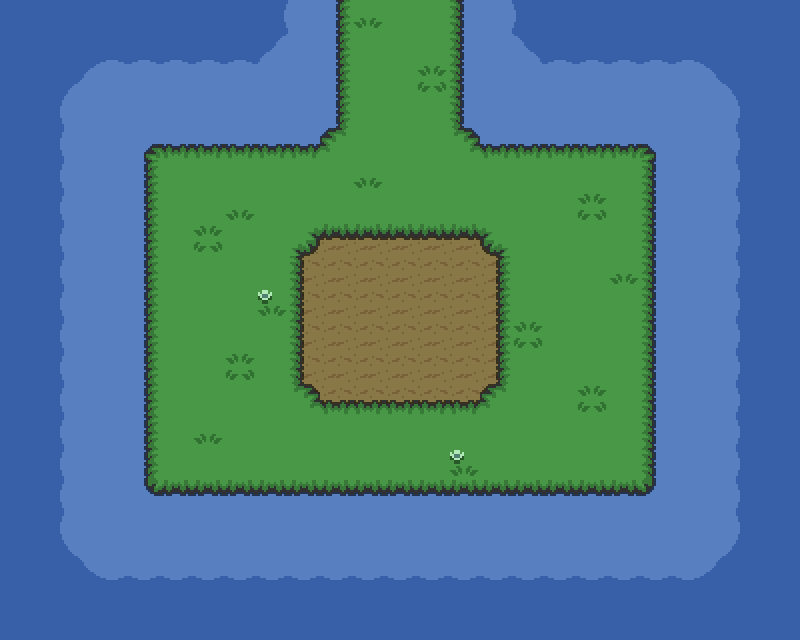
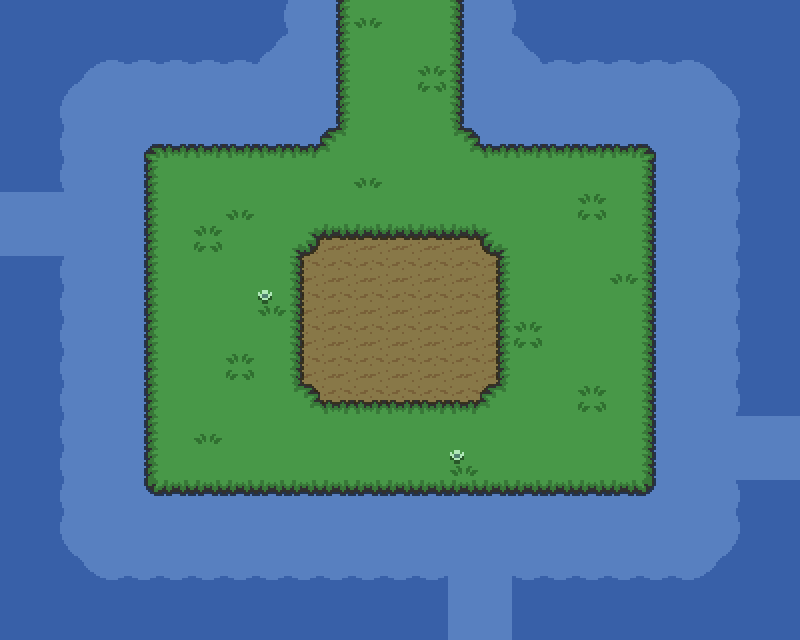
Añado constantes de ancho/alto del escenario a config, funciones para cambiar de escenario y viajar, corrección en map por las nuevas constantes y actualizo mapas Inicio y Explanada

Changed region(s): [[0.9062, 0.625, 1.0, 0.75], [0.0, 0.2812, 0.0938, 0.4062], [0.5625, 0.9062, 0.6562, 1.0]]

diff --git a/app/module/api/api.php b/app/module/api/api.php
@@ -259,7 +259,7 @@ class api extends OModule {
 		$this->getTemplate()->addComponent('scenario_objects', 'admin/scenario_objects', ['list' => $scenario_objects, 'extra' => 'nourlencode']);
 		$this->getTemplate()->addComponent('characters',       'admin/characters',       ['list' => $characters,       'extra' => 'nourlencode']);
 	}
-	
+
 	/**
 	 * Función para obtener los mundos que un jugador a desbloqueado
 	 *
@@ -283,5 +283,139 @@ class api extends OModule {
 
 		$this->getTemplate()->add('status', $status);
 		$this->getTemplate()->addComponent('list', 'admin/worlds', ['list' => $list, 'extra' => 'nourlencode']);
+	}
+
+	/**
+	 * Función para obtener las conexiones de un escenario
+	 *
+	 * @url /get-scenario-connections
+	 * @filter gameFilter
+	 * @param ORequest $req Request object with method, headers, parameters and filters used
+	 * @return void
+	 */
+	public function getScenarioConnections(ORequest $req): void {
+		$status      = 'ok';
+		$id_scenario = $req->getParamInt('id');
+		$list        = [];
+
+		if (is_null($id_scenario)) {
+			$status = 'error';
+		}
+
+		if ($status=='ok') {
+			$scenario = new Scenario();
+			if ($scenario->find(['id' => $id_scenario])){
+				$list = $scenario->getConnections();
+			}
+			else {
+				$status = 'error';
+			}
+		}
+
+		$this->getTemplate()->add('status', $status);
+		$this->getTemplate()->addComponent('list', 'admin/connections', ['list' => $list, 'extra' => 'nourlencode']);
+	}
+
+	/**
+	 * Función para viajar a otro mundo
+	 *
+	 * @url /travel
+	 * @filter gameFilter
+	 * @param ORequest $req Request object with method, headers, parameters and filters used
+	 * @return void
+	 */
+	public function travel(ORequest $req): void {
+		$status     = 'ok';
+		$id_game   = $req->getParamInt('idGame');
+		$id_world   = $req->getParamInt('idWorld');
+		$word_one   = $req->getParamString('wordOne');
+		$word_two   = $req->getParamString('wordTwo');
+		$word_three = $req->getParamString('wordThree');
+
+		if (is_null($id_game) || is_null($word_one) || is_null($word_two) || is_null($word_three)) {
+			$status = 'error';
+		}
+
+		if ($status=='ok') {
+			// Si viene id es que es un mundo ya conocido
+			if (!is_null($id)) {
+				$world = new World();
+				if (!$world->find(['id' => $id])) {
+					$world = null;
+				}
+			}
+			// Si no viene id es que está probando a ir a un mundo nuevo
+			else {
+				$world = $this->web_service->getWorldByWords( strtolower($word_one), strtolower($word_two), strtolower($word_three));
+			}
+
+			if (!is_null($world)) {
+				$id_world = $world->get('id');
+
+				$world_unlocked = new WorldUnlocked();
+				$world_unlocked->set('id_game', $id_game);
+				$world_unlocked->set('id_world', $id_world);
+				$world_unlocked->save();
+			}
+			else {
+				$status = 'error';
+				$id_world = 'null';
+			}
+		}
+
+		$this->getTemplate()->add('status', $status);
+		$this->getTemplate()->add('id',     $id_world);
+	}
+
+	/**
+	 * Función para cambiar de escenario
+	 *
+	 * @url /change-scenario
+	 * @filter gameFilter
+	 * @param ORequest $req Request object with method, headers, parameters and filters used
+	 * @return void
+	 */
+	public function changeScenario(ORequest $req): void {
+		$status  = 'ok';
+		$to      = $req->getParamInt('to');
+		$x       = $req->getParamInt('x');
+		$y       = $req->getParamInt('y');
+		$id_game = $req->getParamInt('idGame');
+
+		if (is_null($to) || is_null($x) || is_null($y) || is_null($id_game)) {
+			$status = 'error';
+		}
+
+		if ($status=='ok') {
+			$game = new Game();
+			if ($game->find(['id' => $id_game])) {
+				$changed_x = false;
+				$changed_y = false;
+				if ($x==$this->getConfig()->getExtra('width')) {
+					$x = 0;
+					$changed_x = true;
+				}
+				if ($y==$this->getConfig()->getExtra('height')) {
+					$y = 0;
+					$changed_y = true;
+				}
+				if (!$changed_x && $x==0) {
+					$x = ($this->getConfig()->getExtra('width') - 1);
+				}
+				if (!$changed_y && $y==0) {
+					$y = ($this->getConfig()->getExtra('height') - 1);
+				}
+
+				$game->set('id_scenario', $to);
+				$game->set('position_x', $x);
+				$game->set('position_y', $y);
+				$game->save();
+			}
+			else {
+				$status = 'error';
+			}
+		}
+
+		$this->getTemplate()->add('status', $status);
 	}
 }

diff --git a/app/task/map.php b/app/task/map.php
@@ -4,9 +4,12 @@ class mapTask extends OTask {
 		return "map: Nueva tarea map";
 	}
 
-	private $tile_size = 32;
-	private $rows = 20;
-	private $cols = 25;
+	private $scenario_width = null;
+	private $scenario_height = null;
+	private $tile_width = null;
+	private $tile_height = null;
+	private $rows = null;
+	private $cols = null;
 
 	private function getResource(string $file, string $ext) {
 		switch ($ext) {
@@ -30,10 +33,10 @@ class mapTask extends OTask {
 
 	private function calculatePosition(int $start_x, int $start_y, int $width, int $height): array {
 		$ret = [
-			'x' => ($start_x * $this->tile_size) - (($width-1) * $this->tile_size),
-			'y' => $start_y * $this->tile_size - (($height-1) * $this->tile_size),
-			'width' => $width * $this->tile_size,
-			'height' => $height * $this->tile_size
+			'x' => ($start_x * $this->tile_width) - (($width-1) * $this->tile_width),
+			'y' => $start_y * $this->tile_height - (($height-1) * $this->tile_height),
+			'width' => $width * $this->tile_width,
+			'height' => $height * $this->tile_height
 		];
 
 		return $ret;
@@ -57,11 +60,18 @@ class mapTask extends OTask {
 			exit;
 		}
 
+		$this->scenario_width = $this->getConfig()->getExtra('scenario_width');
+		$this->scenario_height = $this->getConfig()->getExtra('scenario_height');
+		$this->rows = $this->getConfig()->getExtra('height');
+		$this->cols = $this->getConfig()->getExtra('width');
+		$this->tile_width = $this->scenario_width / $this->cols;
+		$this->tile_height = $this->scenario_height / $this->rows;
+
 		$map_file = $this->getConfig()->getDir('maps').$scenario->get('id_world').'-'.$scenario->get('id').'.png';
 		if (file_exists($map_file)) {
 			unlink($map_file);
 		}
-		$outputImage = imagecreatetruecolor(($this->cols * $this->tile_size), ($this->rows * $this->tile_size));
+		$outputImage = imagecreatetruecolor($this->scenario_width, $this->scenario_height);
 		$data = $scenario->getData();
 
 		// Background
@@ -71,7 +81,7 @@ class mapTask extends OTask {
 			list($width, $height) = getimagesize($bg_file);
 			$bg = $this->getResource($bg_file, $bg_file_ext);
 
-			imagecopyresized($outputImage, $bg, ($scenario_data->get('x') * $this->tile_size), ($scenario_data->get('y') * $this->tile_size), 0, 0, $this->tile_size, $this->tile_size, $width, $height);
+			imagecopyresized($outputImage, $bg, ($scenario_data->get('x') * $this->tile_width), ($scenario_data->get('y') * $this->tile_height), 0, 0, $this->tile_width, $this->tile_height, $width, $height);
 		}
 
 		// Scenario objects
